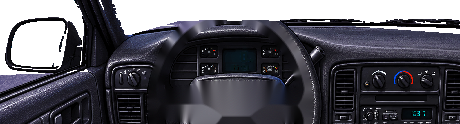
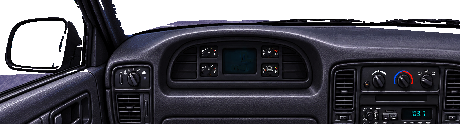
v0.74.5: Patrulha 9C com o painel da arte sem volante (volante da arte com volante)
Claude-Session: https://claude.ai/code/session_01MLD9VR7gkmY4w6a9beZcp6

diff --git a/tools/ref/patrol_cockpit2.py b/tools/ref/patrol_cockpit2.py
@@ -1,6 +1,6 @@
 """Cabine da Patrulha 9C (Caprice 9C1) a partir da arte nova do Victor (uma só, com volante):
-- painel, colunas, porta e retrovisor externo da arte; o volante (aro em elipse, almofada e dois raios) vira a
-  peça que gira, e o painel por trás dele é refeito pelo entorno (inpaint)
+- painel, colunas, porta e retrovisor externo da arte SEM volante (cock-nw.png, ao lado da outra); o volante
+  (aro em elipse, almofada e dois raios) vem da arte com volante e é a peça que gira
 - vidros: dentro dos polígonos do para-brisa e da janela, o cenário (céu, mato, asfalto claro) vira vidro; o
   retrovisor interno sai inteiro (o jogo desenha o dele) e a arte, que acaba no alto sem forro, ganha o forro
   desenhado
@@ -65,8 +65,12 @@ def main():
     for tx0, ty0, tx1, ty1 in TXT[:1]:
         for y in range(ty0, ty1):
             ww[y, tx0:tx1] = np.median(ww[y, tx0 - 30:tx0 - 2], axis=0).astype(np.uint8)
-    # painel sem o volante
-    nw = cv2.inpaint(a, cv2.dilate(wheel.astype(np.uint8), np.ones((5, 5), np.uint8)), 7, cv2.INPAINT_TELEA)
+    # painel sem o volante: a arte SEM volante do Victor (alinhada com a outra); sem ela, refeito pelo entorno
+    nwp = os.path.join(os.path.dirname(src), 'cock-nw.png')
+    if os.path.exists(nwp):
+        nw = np.array(Image.open(nwp).convert('RGB'))
+    else:
+        nw = cv2.inpaint(a, cv2.dilate(wheel.astype(np.uint8), np.ones((5, 5), np.uint8)), 7, cv2.INPAINT_TELEA)
     for tx0, ty0, tx1, ty1 in TXT[1:]:
         for y in range(ty0, ty1):
             nw[y, tx0:tx1] = np.median(nw[y, tx0 - 20:tx0 - 2], axis=0).astype(np.uint8)
